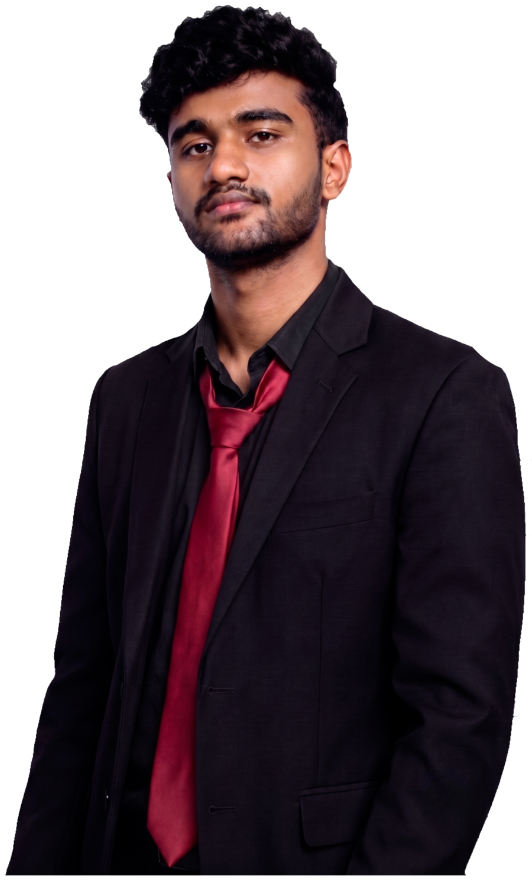
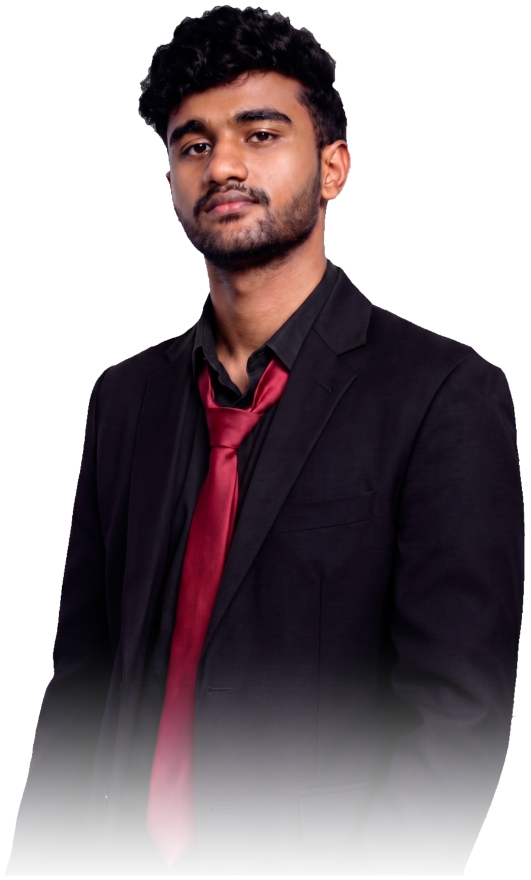
Apply seamless gradient bottom mask and ambient crimson back-glow to blend portrait photo with background

diff --git a/style.css b/style.css
@@ -285,19 +285,23 @@ img {
   color: var(--primary-accent);
 }
 
-/* Center Hero Column (Transparent Portrait) */
+/* Center Hero Column (Blended Transparent Portrait) */
 .hero-col-center {
+  position: relative;
   display: flex;
   justify-content: center;
   align-items: flex-end;
   height: 520px;
+  background: radial-gradient(circle at 50% 65%, rgba(239, 68, 68, 0.18) 0%, rgba(10, 10, 12, 0) 70%);
 }
 
 .hero-portrait-img {
   height: 510px;
   width: auto;
   object-fit: contain;
-  filter: drop-shadow(0 20px 30px rgba(0, 0, 0, 0.7));
+  filter: drop-shadow(0 0 35px rgba(239, 68, 68, 0.28)) drop-shadow(0 20px 30px rgba(0, 0, 0, 0.8)) brightness(0.96) contrast(1.04);
+  -webkit-mask-image: linear-gradient(to bottom, rgba(0,0,0,1) 70%, rgba(0,0,0,0) 98%);
+  mask-image: linear-gradient(to bottom, rgba(0,0,0,1) 70%, rgba(0,0,0,0) 98%);
 }
 
 /* Right Hero Column (Stats) */

diff --git a/index.html b/index.html
@@ -64,9 +64,9 @@
             </div>
           </div>
 
-          <!-- Center Column (Transparent Portrait) -->
+          <!-- Center Column (Blended Transparent Portrait) -->
           <div class="hero-col-center">
-            <img src="assets/images/hero-person-transparent.png?v=13" alt="Sreeshnu S A" class="hero-portrait-img">
+            <img src="assets/images/hero-person-transparent.png?v=14" alt="Sreeshnu S A" class="hero-portrait-img">
           </div>
 
           <!-- Right Column (Stats) -->
